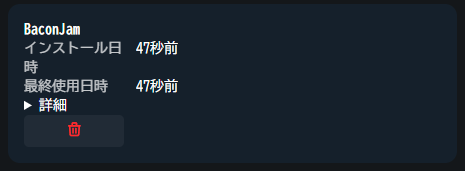
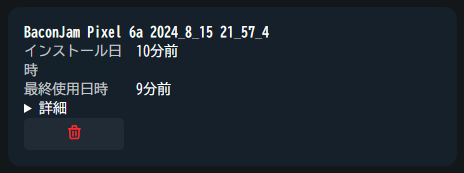
「なうぷれ投稿について」ページを作成しました。

diff --git a/docs/guide-nowplaying.html b/docs/guide-nowplaying.html
@@ -6,7 +6,7 @@
     <meta charset="UTF-8">
     <link rel="stylesheet" href="./css/style-notes.css">
     <meta name="viewport" content="width=device-width, initial-scale=1.0">
-    <title>投稿範囲の設定</title>
+    <title>なうぷれ投稿について</title>
     <link rel="shortcut icon" type="image/x-icon" href="./images/favicon.ico">
     <link href="https://cdnjs.cloudflare.com/ajax/libs/lightbox2/2.11.4/css/lightbox.css" rel="stylesheet">
     <script src="https://ajax.googleapis.com/ajax/libs/jquery/3.6.0/jquery.min.js" defer></script>
@@ -15,6 +15,8 @@
     <link rel="preconnect" href="https://fonts.googleapis.com">
     <link rel="preconnect" href="https://fonts.gstatic.com" crossorigin>
     <link href="https://fonts.googleapis.com/css2?family=Kiwi+Maru&display=swap" rel="stylesheet">
+    <!-- Google font Icon -->
+    <link href="https://fonts.googleapis.com/icon?family=Material+Icons" rel="stylesheet" />
 </head>
 
 <body>
@@ -28,8 +30,8 @@
             </li>
 
             <li itemprop="itemListElement" itemscope itemtype="https://schema.org/ListItem">
-                <a itemprop="item" href="./guide-note-region.html">
-                    <span itemprop="name">投稿範囲の設定</span>
+                <a itemprop="item" href="./guide-nowplaying.html">
+                    <span itemprop="name">なうぷれ投稿について</span>
                 </a>
                 <meta itemprop="position" content="2" />
             </li>
@@ -37,13 +39,39 @@
     </header>
 
     <div class="contentsbody">
-        <h1>投稿範囲の設定</h1>
+        <h1>なうぷれ投稿について</h1>
+        <ol>
+            <li>ホーム画面のハンバーガーメニュー<span class="button-like-text"><span class="material-icons"
+                        style="font-size: 1.2em;">menu</span></span>を押下してドロワーを表示し、<span
+                    class="button-like-text">設定</span>を押下してください。</li>
+        </ol>
+
+        <div id="toc">
+            <ul id="toc-list"></ul>
+        </div>
+
+        <h2>有効/無効化</h2>
+        <ul>
+            <li><span class="button-like-text">なうぷれ投稿する</span>をオンにすると、音楽再生時になうぷれ投稿されるようになります。</li>
+            <div style="text-align: center;">
+                <a href="./images/nowplaying1.png" data-lightbox="misskey-group"><img src="./images/nowplaying1.png"
+                        alt="" width="200"></a>
+            </div>
+            <li>Misskeyへの投稿に必要なアクセストークンが発行されていない場合、以下のようなダイアログが表示されます。</li>
+            <div style="text-align: center;">
+                <a href="./images/nowplaying2.png" data-lightbox="misskey-group"><img src="./images/nowplaying2.png"
+                        alt="" width="200"></a>
+            </div>
+            <li><span class="button-like-text">OK</span>を押下すると、<a href="./misskey-setting.html">Misskeyとの連携</a>に進みます。
+            </li>
+        </ul>
+        <h2>投稿範囲</h2>
         <ol>
             <li>設定画面の「なうぷれ設定」の<span class="button-like-text">詳細</span>を押下して、詳細設定を展開して下さい。</li>
             <div style="text-align: center;">
-                <a href="./images/note-region1.png" data-lightbox="misskey-group"><img src="./images/note-region1.png"
+                <a href="./images/nowplaying3.png" data-lightbox="misskey-group"><img src="./images/nowplaying3.png"
                         alt="" width="200"></a>
-                <a href="./images/note-region2.png" data-lightbox="misskey-group"><img src="./images/note-region2.png"
+                <a href="./images/nowplaying4.png" data-lightbox="misskey-group"><img src="./images/nowplaying4.png"
                         alt="" width="200"></a>
                 <p>なうぷれ詳細設定<code id="version"></code></p>
             </div>
@@ -67,26 +95,54 @@
                 </tr>
             </table>
             <div style="text-align: center;">
-                <a href="./images/note-region3.png" data-lightbox="misskey-group"><img src="./images/note-region3.png"
+                <a href="./images/nowplaying5.png" data-lightbox="misskey-group"><img src="./images/nowplaying5.png"
                         alt="" width="200"></a>
                 <p>ドロップダウン一覧<code id="version"></code></p>
             </div>
             <li>ドロップダウンで<span class="button-like-text">チャンネル</span>を選択すると、ドロップダウンの下に<span
                     class="button-like-text">チャンネルを選択</span>ボタンが表示されます。</li>
             <div style="text-align: center;">
-                <a href="./images/note-region4.png" data-lightbox="misskey-group"><img src="./images/note-region4.png"
+                <a href="./images/nowplaying6.png" data-lightbox="misskey-group"><img src="./images/nowplaying6.png"
                         alt="" width="200"></a>
             </div>
             <li><span class="button-like-text">チャンネルを選択</span>ボタンを押下すると、チャンネル選択画面に移動します。</li>
             <li>チャンネル名またはチャンネルIDを検索欄に入力すると、候補が表示されます。</li>
             <div style="text-align: center;">
-                <a href="./images/note-region5.png" data-lightbox="misskey-group"><img src="./images/note-region5.png"
+                <a href="./images/nowplaying7.png" data-lightbox="misskey-group"><img src="./images/nowplaying7.png"
                         alt="" width="200"></a>
-                <a href="./images/note-region6.png" data-lightbox="misskey-group"><img src="./images/note-region6.png"
+                <a href="./images/nowplaying8.png" data-lightbox="misskey-group"><img src="./images/nowplaying8.png"
                         alt="" width="200"></a>
             </div>
             <li>表示されたチャンネル名を押下すると、投稿先として選択できます。</li>
         </ol>
+        <h2>アルバムアートワークの添付</h2>
+        <ol>
+            <li>設定画面の「なうぷれ設定」の<span class="button-like-text">詳細</span>を押下して、詳細設定を展開して下さい。</li>
+            <div style="text-align: center;">
+                <a href="./images/nowplaying9.png" data-lightbox="misskey-group"><img src="./images/nowplaying9.png"
+                        alt="" width="200"></a>
+                <a href="./images/nowplaying10.png" data-lightbox="misskey-group"><img src="./images/nowplaying10.png"
+                        alt="" width="200"></a>
+                <p>なうぷれ詳細設定<code id="version"></code></p>
+            </div>
+            <li>アルバムアートのドロップダウンで、以下のいずれかから添付モードを選択できます。</li>
+            <ul>
+                <li>添付しない</li>
+                <li>Wi-Fi接続時のみ添付する</li>
+                <li>モバイル通信でも添付する</li>
+            </ul>
+            <div style="text-align: center;">
+                <a href="./images/nowplaying11.png" data-lightbox="misskey-group"><img src="./images/nowplaying11.png"
+                        alt="" width="200"></a>
+                <p>ドロップダウン一覧<code id="version"></code></p>
+            </div>
+            <li>添付可能なアルバムアートが音楽ファイルに埋め込まれていない場合、以下の代替イラストを投稿します。</li>
+            <div style="text-align: center;">
+                <a href="./images/noImage.png" data-lightbox="misskey-group"><img src="./images/noImage.png"
+                        alt="" width="200"></a>
+            </div>
+        </ol>
+        <h2>ノートの編集</h2>
     </div>
     <footer>
         <div id="footer"></div>

diff --git a/docs/misskey-setting.html b/docs/misskey-setting.html
@@ -80,15 +80,15 @@
                 <a href="./images/misskey6.png" data-lightbox="misskey-group"><img src="./images/misskey6.png" alt=""
                         width="200"></a>
             </div>
-            <li>Misskey接続設定の<span class="button-like-text">してきたよ</span>を押下すると、連携に成功している場合以下の図のようなダイアログが表示されます。</li>
+            <li>連携に成功している場合以下の図のようなダイアログが表示されます。</li>
+            <div class="box-caution">
+                <p>
+                    <span class="button-like-text">許可</span>を押下する前にBaconJamに戻ったり、<span class="button-like-text">キャンセル</span>を押下すると認証に失敗します。その場合は、再度<span class="button-like-text">認証する</span>を押下するところから行ってください。
+                </p>
+            </div>
             <div style="text-align: center;">
                 <a href="./images/misskey7.png" data-lightbox="misskey-group"><img src="./images/misskey7.png" alt=""
                         width="200"></a>
-            </div>
-            <div class="box-check">
-                <p>
-                    ご自身のアカウントが正しく連携されていることを確認してください。
-                </p>
             </div>
         </ol>
         <h2>発行したアクセストークンの確認・削除</h2>
@@ -104,7 +104,7 @@
                 <a href="./images/misskey9.png" data-lightbox="misskey-group"><img src="./images/misskey9.png" alt=""
                         width="600"></a>
             </div>
-            <li>アクセストークン一覧に、「BaconJam」という名前のものが発行されています。不要になった場合は、ゴミ箱アイコンを押下してアクセストークンを削除してください。</li>
+            <li>アクセストークン一覧に、<code>BaconJam 機種名 発行年_月_日 時_分_秒</code>という名前のものが発行されています。不要になった場合は、ゴミ箱アイコンを押下してアクセストークンを削除してください。</li>
             <div style="text-align: center;">
                 <a href="./images/misskey10.png" data-lightbox="misskey-group"><img src="./images/misskey10.png" alt=""
                         width="600"></a>

diff --git a/docs/index.html b/docs/index.html
@@ -52,11 +52,12 @@
             <details class="circle-details">
                 <summary>操作説明</summary>
                 <div>
+                    <p><a href="./guide-nowplaying.html"
+                            style="display: inline-block; color: white;">なうぷれ投稿について</a></p>
                     <p><a href="./guide-check-current-version.html"
                             style="display: inline-block; color: white;">インストール済バージョンの確認</a></p>
                     <p><a href="./guide-theme.html" style="display: inline-block; color: white;">テーマの設定</a></p>
                     <p><a href="./guide-playlists.html" style="display: inline-block; color: white;">プレイリストについて</a></p>
-                    <p><a href="./guide-note-region.html" style="display: inline-block; color: white;">投稿範囲の設定</a></p>
                     <p><a href="./guide-battery-optimization.html"
                             style="display: inline-block; color: white;">バッテリー使用量の最適化</a></p>
                 </div>
